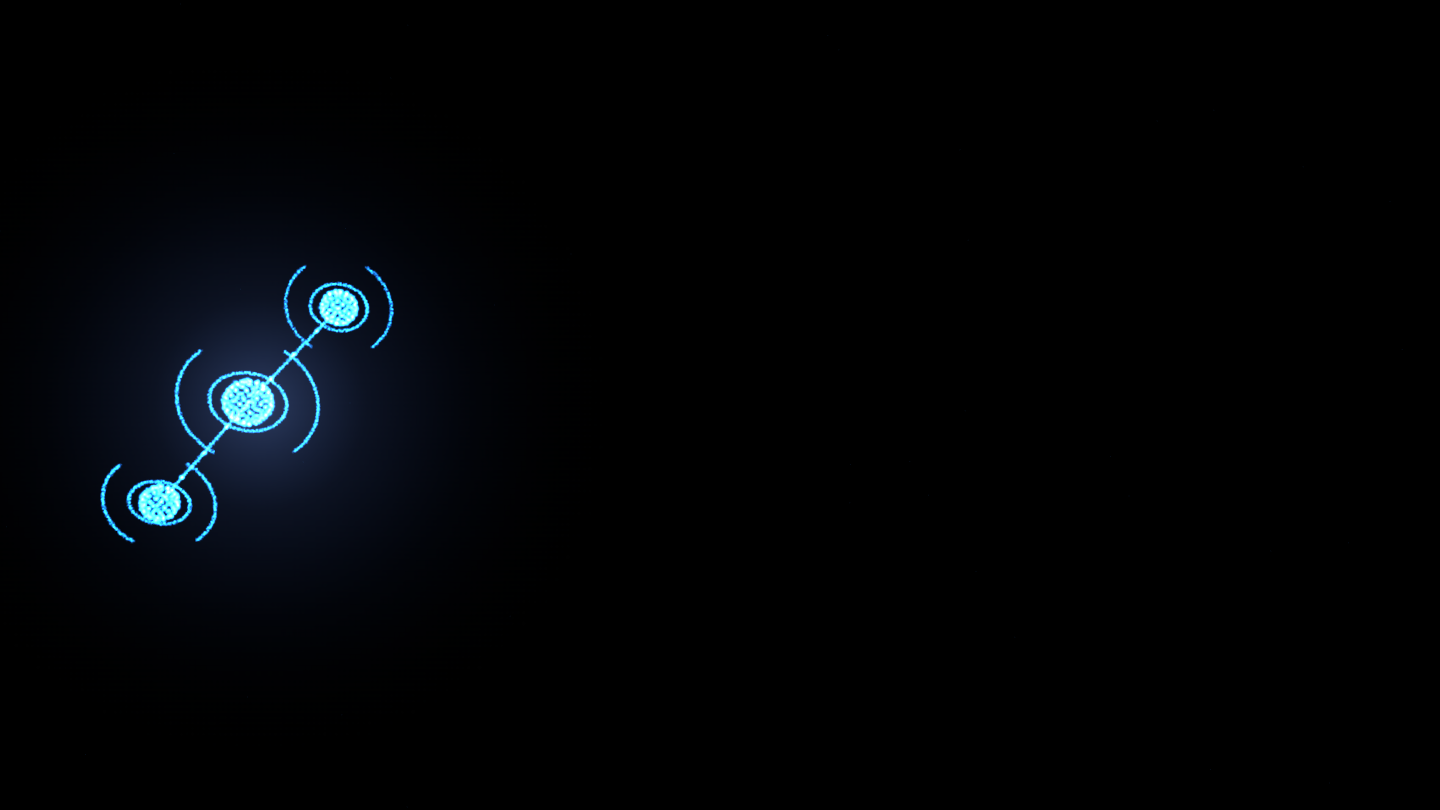
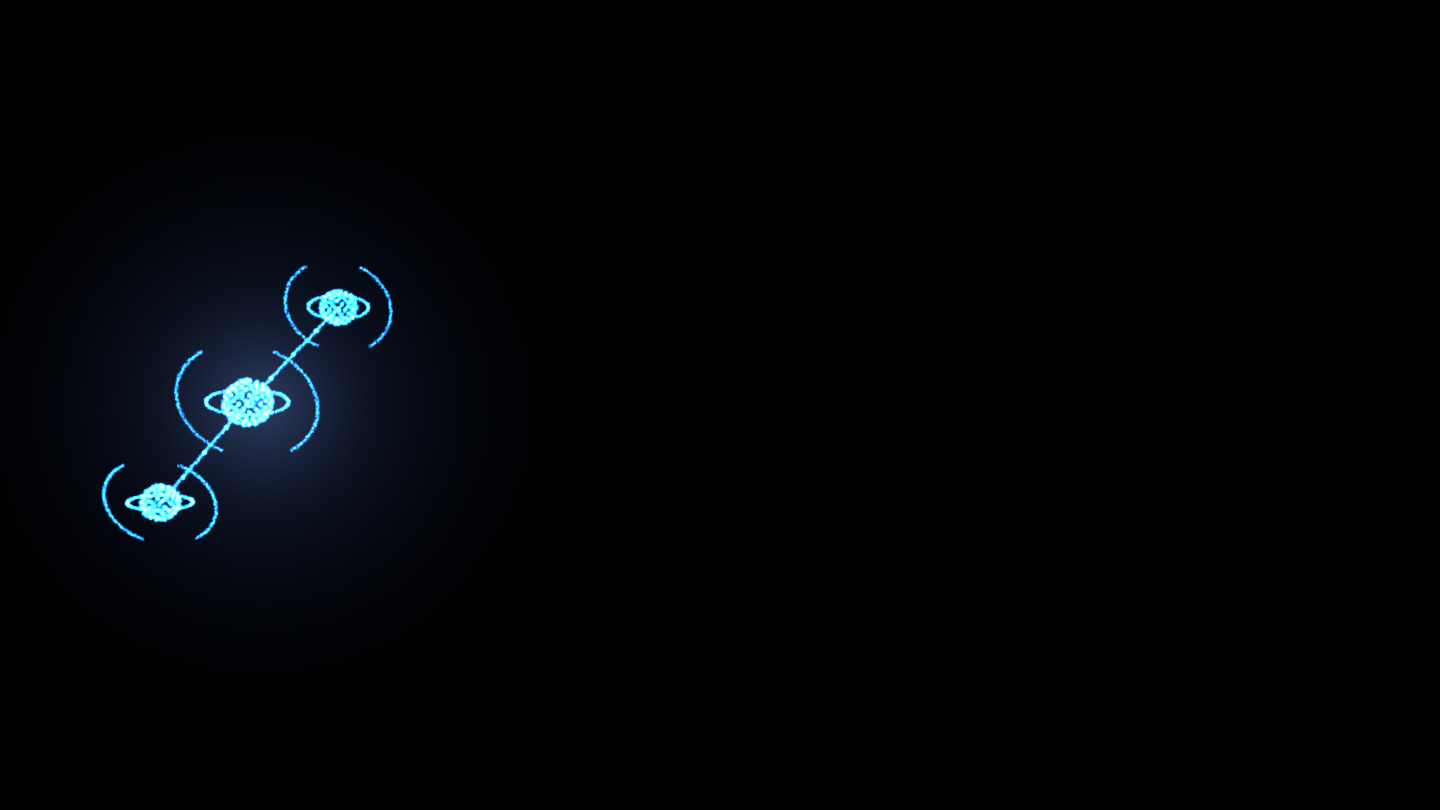
Object 04: flat Saturn disc + upright brackets, smoother orbs, solid route
Matches the mockup's layered 3D structure:
- Inner ring is now a FLAT horizontal disc (tX=1.22, h/w≈0.34) cutting through
  the sphere equator, clearly distinct from the upright outer brackets.
- Outer brackets raised to tX=0.52 (near-vertical plane) so the two ring systems
  read as different tilt planes layered in depth.
- Spheres: 5-pass dense shell (tag 0 bright) + 70% interior fill → smooth glowing
  orbs instead of speckled dot clusters.
- Connection route: 6 passes at 0.016 spacing → solid continuous bright line.
- Inner disc radius bumped to ~1.65× cR for clear separation from the sphere.

Harness: CROP env on scripts/shoot.mjs for close-up inspection captures.

https://claude.ai/code/session_01L78wPX7NWwYVcQW3oYqJZt

Changed region(s): [[0.0625, 0.3395, 0.2812, 0.679]]

diff --git a/src/components/scene/HeroOrb.jsx b/src/components/scene/HeroOrb.jsx
@@ -509,9 +509,9 @@ function _genWorkflowPath() {
   // Three process nodes on a lower-left → upper-right diagonal. Center node is the
   // dominant logic hub: larger sphere and wider ring system than the outer two.
   const nodeParams = [
-    { pos: [-R*0.62, -R*0.72,  R*0.05], cR: R*0.130, iR: R*0.205, oR: R*0.385, N: 100 },
-    { pos: [ R*0.01,  R*0.02,  R*0.07], cR: R*0.170, iR: R*0.265, oR: R*0.495, N: 140 },
-    { pos: [ R*0.64,  R*0.74, -R*0.04], cR: R*0.130, iR: R*0.205, oR: R*0.385, N: 100 },
+    { pos: [-R*0.62, -R*0.72,  R*0.05], cR: R*0.130, iR: R*0.215, oR: R*0.385, N: 100 },
+    { pos: [ R*0.01,  R*0.02,  R*0.07], cR: R*0.170, iR: R*0.280, oR: R*0.495, N: 140 },
+    { pos: [ R*0.64,  R*0.74, -R*0.04], cR: R*0.130, iR: R*0.215, oR: R*0.385, N: 100 },
   ]
 
   // tag 1 = small crisp orb (half size under edge-boost) — used for spheres/rings/route
@@ -540,42 +540,41 @@ function _genWorkflowPath() {
     const gold = Math.PI*(3-Math.sqrt(5))
 
     // Sphere — tag-0 (bright 2× orbs) on outer shell so it reads as a glowing orb.
-    // Dense fibonacci surface shell for a crisp spherical silhouette.
-    for (let p=0; p<3; p++)
+    // Dense fibonacci surface shell (5 passes, tight radius) for a smooth bright orb.
+    for (let p=0; p<5; p++)
       for (let i=0; i<N; i++) {
         const fy=1-(i/(N-1))*2, fr=Math.sqrt(1-fy*fy), fa=gold*i
-        const rr=cR*(0.94+Math.random()*0.06)
-        addPt(nx+Math.cos(fa)*fr*rr, ny+fy*rr, nz+Math.sin(fa)*fr*rr, 0.004, 0)
+        const rr=cR*(0.96+Math.random()*0.04)
+        addPt(nx+Math.cos(fa)*fr*rr, ny+fy*rr, nz+Math.sin(fa)*fr*rr, 0.003, 0)
       }
-    // Interior volume fill — tag-1 (smaller) so the core is softer than the bright rim.
-    const nI = Math.floor(N*0.40)
+    // Interior volume fill — tag-1 (smaller) fills the body so it isn't a hollow shell.
+    const nI = Math.floor(N*0.70)
     for (let i=0; i<nI; i++) {
       const fy=1-(i/(nI-1))*2, fr=Math.sqrt(1-fy*fy), fa=gold*i*1.7
-      const rr=cR*Math.cbrt(Math.random())*0.70
-      addPt(nx+Math.cos(fa)*fr*rr, ny+fy*rr, nz+Math.sin(fa)*fr*rr, 0.006, 1)
+      const rr=cR*Math.cbrt(Math.random())*0.85
+      addPt(nx+Math.cos(fa)*fr*rr, ny+fy*rr, nz+Math.sin(fa)*fr*rr, 0.005, 1)
     }
 
-    // Inner ring — full orbital ring clearly separate from sphere (iR ≈ 1.58× cR).
-    // tX=0.60: visible ellipse with h/w = cos(0.60) = 0.825 — clearly 3D, not a disc.
-    // tZ=0.10 tilts the major axis to align with the diagonal.
-    drawArc(nx,ny,nz, iR, 0.60, 0.10, 0, Math.PI*2, 3, 1)
+    // Inner ring — FLAT horizontal disc (Saturn-style) cutting through the equator.
+    // tX=1.22: h/w = cos(1.22) = 0.34 — a clearly flat disc, not an upright circle.
+    // iR ≈ 1.65× cR so the disc extends out past the sphere on both sides.
+    // tZ=0.10 tilts the major axis to follow the diagonal. Full loop, dense.
+    drawArc(nx,ny,nz, iR, 1.22, 0.10, 0, Math.PI*2, 4, 1)
 
-    // Outer halo — two bracket arcs clearly separated (gaps 72° at top and bottom).
-    // span=0.60π (108°) each, centred on LEFT (180°) and RIGHT (0°) of the node.
-    // tX=0.35 tilts the arc plane so they read as curving around the node in depth.
-    // Right arc: -54°→+54° (rightmost point of oval)
-    // Left  arc: 126°→234° (leftmost point of oval)
-    drawArc(nx,ny,nz, oR, 0.35, 0.0, -Math.PI*0.30, Math.PI*0.60, 3, 1) // right
-    drawArc(nx,ny,nz, oR, 0.35, 0.0,  Math.PI*0.70, Math.PI*0.60, 3, 1) // left
+    // Outer halo — two UPRIGHT bracket arcs on a near-vertical plane (tX=0.52, so the
+    // arcs are clearly more upright than the flat inner disc → strong 3D layering).
+    // span=0.66π (119°) each, centred LEFT (180°) and RIGHT (0°), gaps ~61° top/bottom.
+    drawArc(nx,ny,nz, oR, 0.52, 0.0, -Math.PI*0.33, Math.PI*0.66, 3, 1) // right
+    drawArc(nx,ny,nz, oR, 0.52, 0.0,  Math.PI*0.67, Math.PI*0.66, 3, 1) // left
   }
 
   // Connection route — one bright continuous line through all three node centres.
   const [x0,y0,z0]=nodeParams[0].pos, [x1,y1,z1]=nodeParams[1].pos, [x2,y2,z2]=nodeParams[2].pos
   const segLine = (ax,ay,az, bx,by,bz) => {
-    const n = Math.max(Math.ceil(Math.hypot(bx-ax,by-ay,bz-az)/0.022), 20)
-    for (let p=0; p<4; p++)
+    const n = Math.max(Math.ceil(Math.hypot(bx-ax,by-ay,bz-az)/0.016), 24)
+    for (let p=0; p<6; p++)
       for (let i=0; i<=n; i++) { const t=i/n
-        addPt(ax+(bx-ax)*t, ay+(by-ay)*t, az+(bz-az)*t, 0.003, 1) }
+        addPt(ax+(bx-ax)*t, ay+(by-ay)*t, az+(bz-az)*t, 0.0025, 1) }
   }
   segLine(x0,y0,z0, x1,y1,z1)
   segLine(x1,y1,z1, x2,y2,z2)